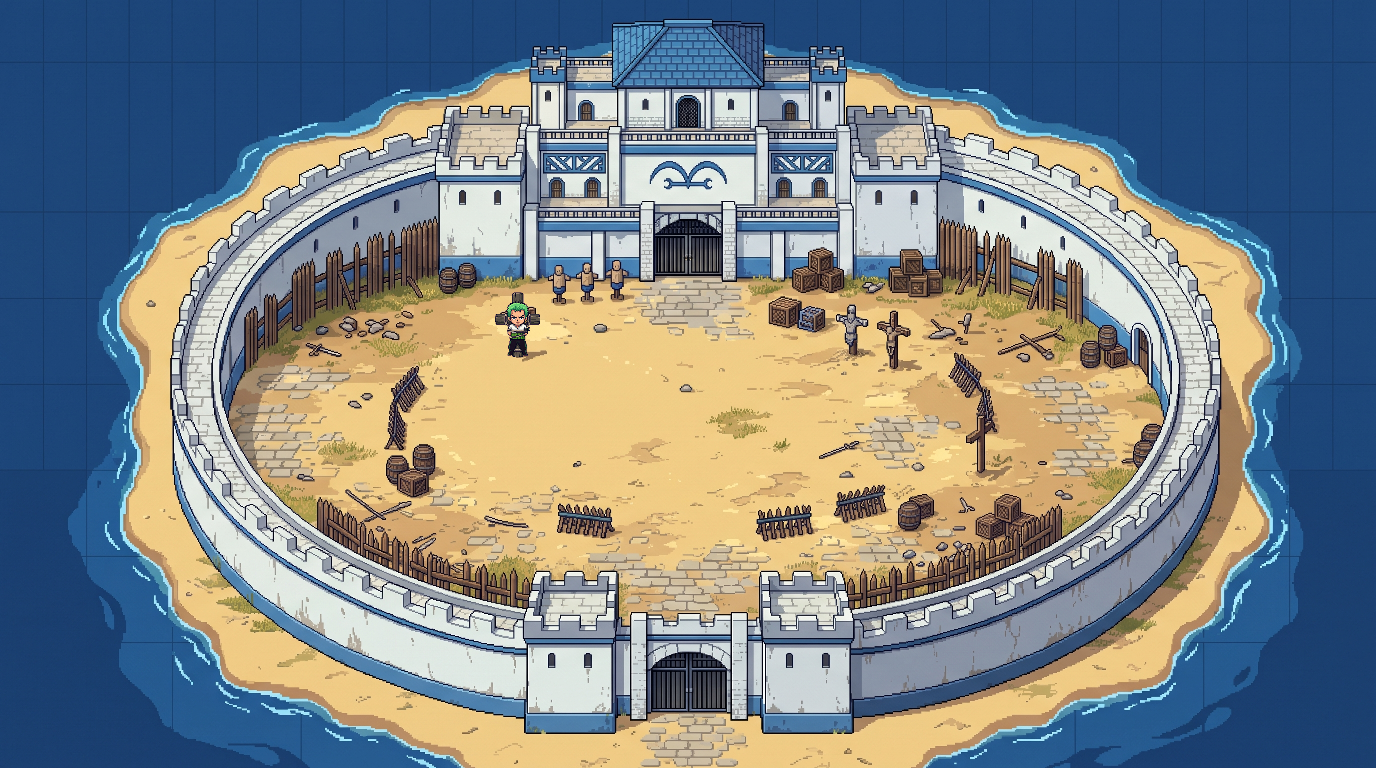
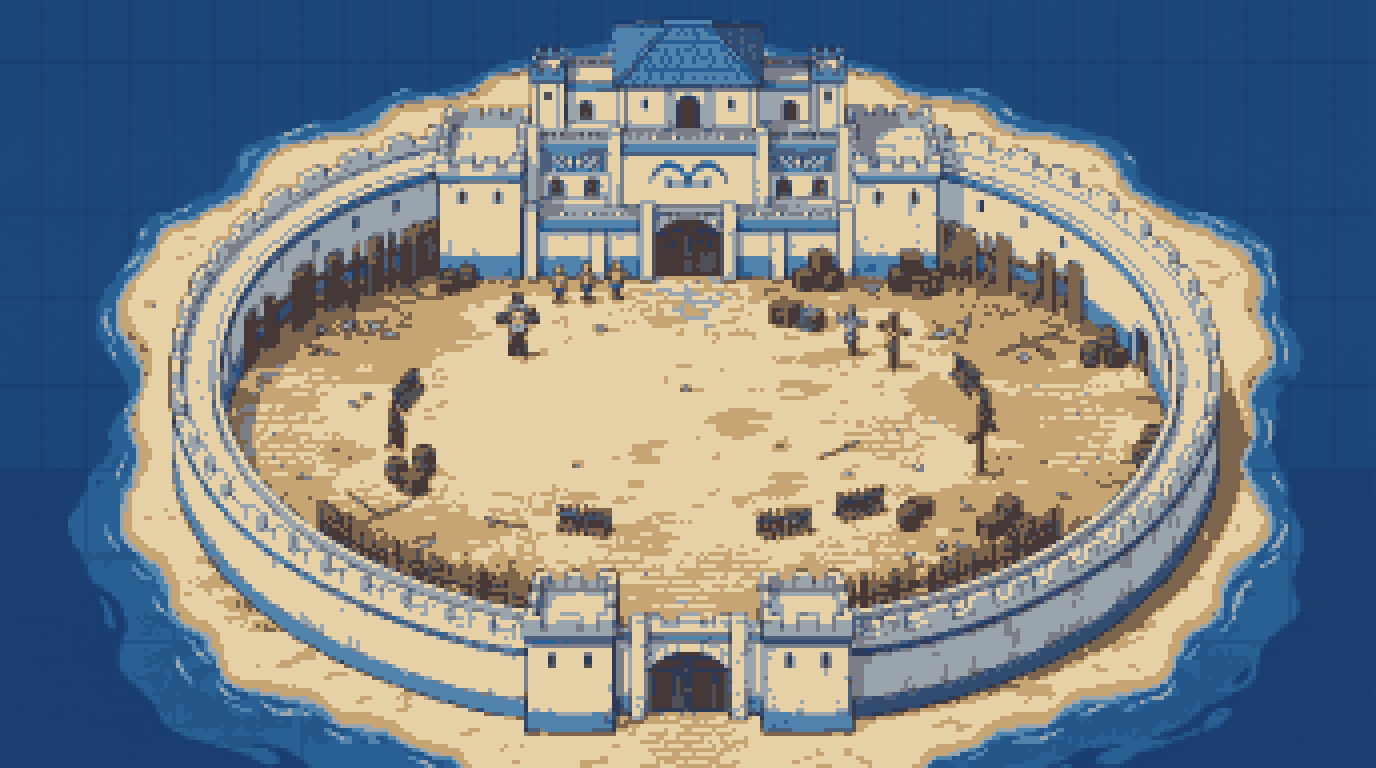
Shells Town: estilo limpio, muros y castillo bloqueados

diff --git a/js/data/islands.js b/js/data/islands.js
@@ -29,7 +29,8 @@ G.Islands = (() => {
   const SAGAS = [
     { id: 'eastblue', name: 'Saga de East Blue', enemies: ['marine', 'marinegun', 'rifle'], islands: [
       { id: 'shells',     name: 'Shells Town',   sub: 'La base del capitán Morgan', biome: 0, boss: 'morgan', map: 'assets/maps/shells-town.png',
-        gates: [{ x: 660, y: 222, w: 58, h: 48 }, { x: 662, y: 668, w: 58, h: 46 }] },
+        gates: [{ x: 660, y: 222, w: 58, h: 48 }, { x: 662, y: 668, w: 58, h: 46 }],
+        solids: [{ x: 430, y: 40, w: 510, h: 235 }] },
       { id: 'orange',     name: 'Orange Town',   sub: 'El pueblo tomado por Buggy', biome: 0, boss: 'buggy', map: 'assets/maps/orange.png', },
       { id: 'syrup',      name: 'Villa Syrup',   sub: 'La mansión de Kaya',         biome: 0, boss: 'kuro', map: 'assets/maps/syrup.png',
         gates: [{ x: 670, y: 655, w: 50, h: 45 }, { x: 325, y: 335, w: 34, h: 30 }] },

diff --git a/js/world/mapmask.js b/js/world/mapmask.js
@@ -32,6 +32,7 @@ const MapMask = (() => {
       const lum = (R + G + B) / 3, mx = Math.max(R, G, B), mn = Math.min(R, G, B);
       if (sea[i]) mask[i] = lum > 150 ? 1 : 2;
       else if (blue[i]) mask[i] = 2;
+      else if (B >= R + 10 && B >= G && lum >= 120 && lum < 230) mask[i] = 2;     // piedra azulada de los muros
       else if (lum < 60) mask[i] = 2;                              // contornos
       else if (lum >= 215 && mx - mn <= 40) mask[i] = 2;           // muros y edificios blancos
       else if (R > G + 15 && G > B && lum > 50 && lum < 140 && R < 175) mask[i] = 2;  // madera
